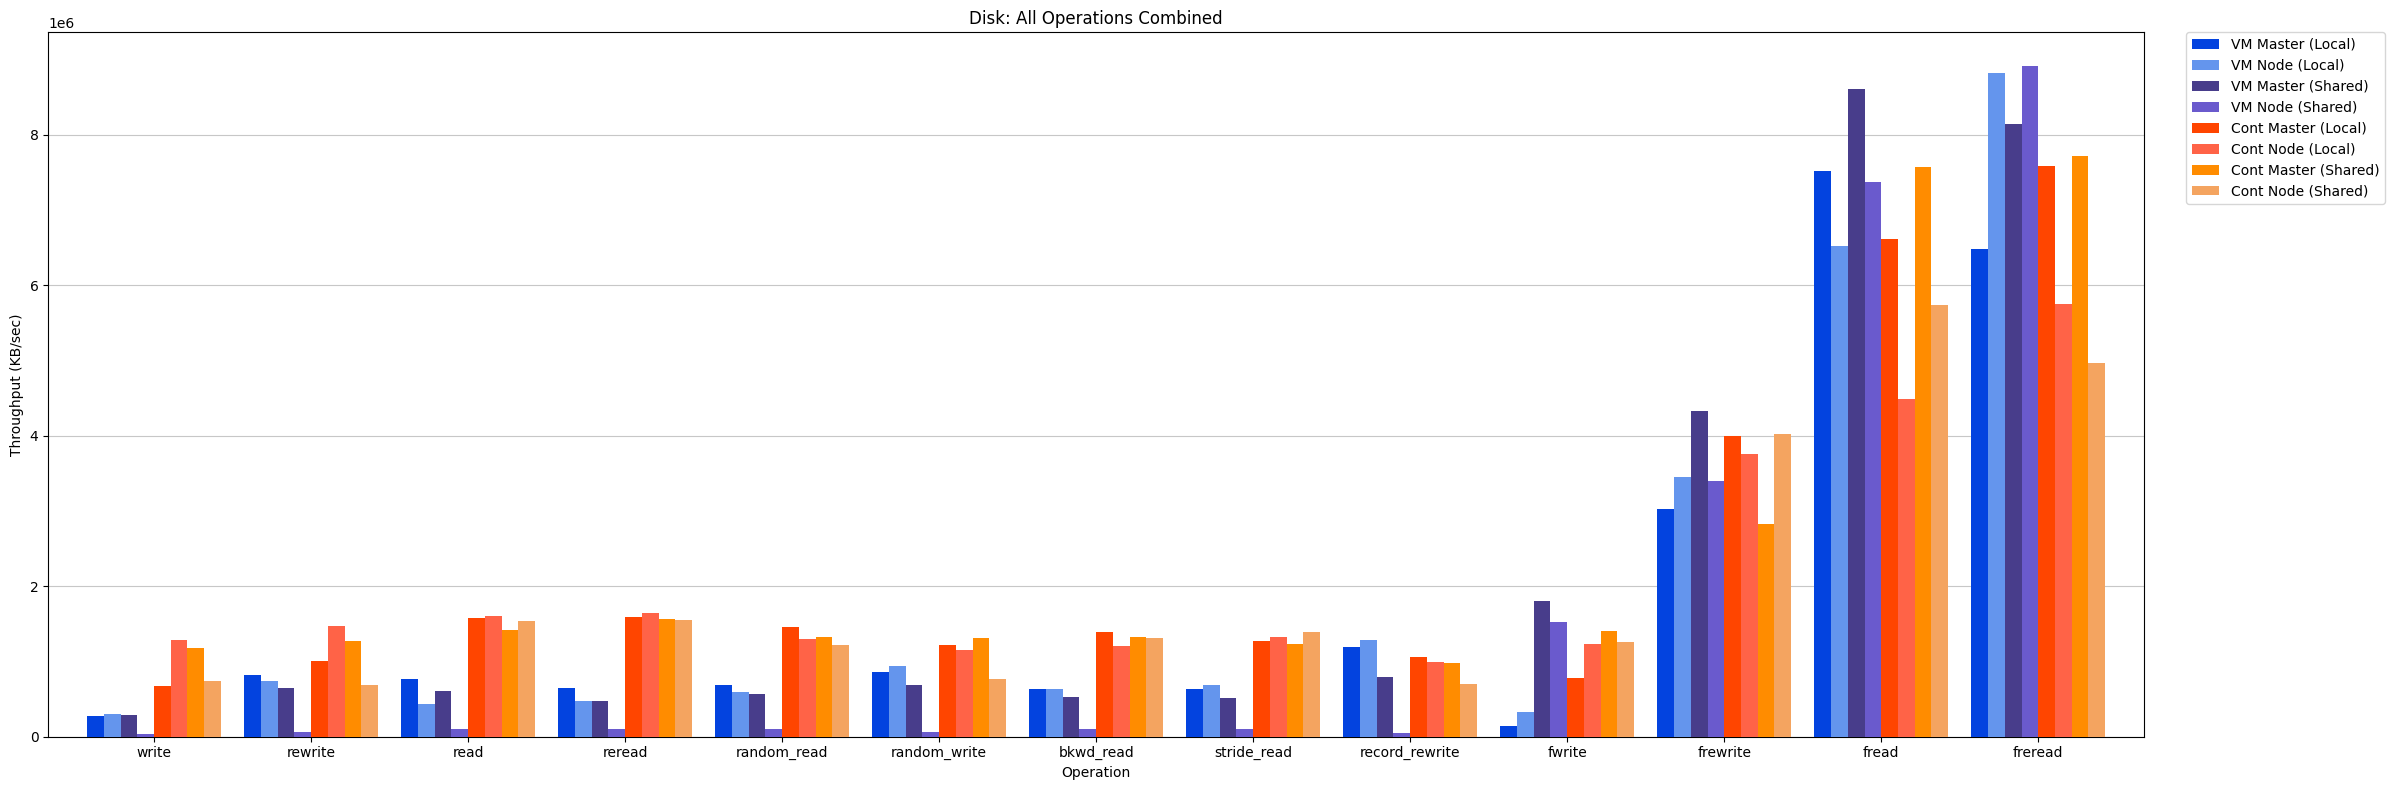
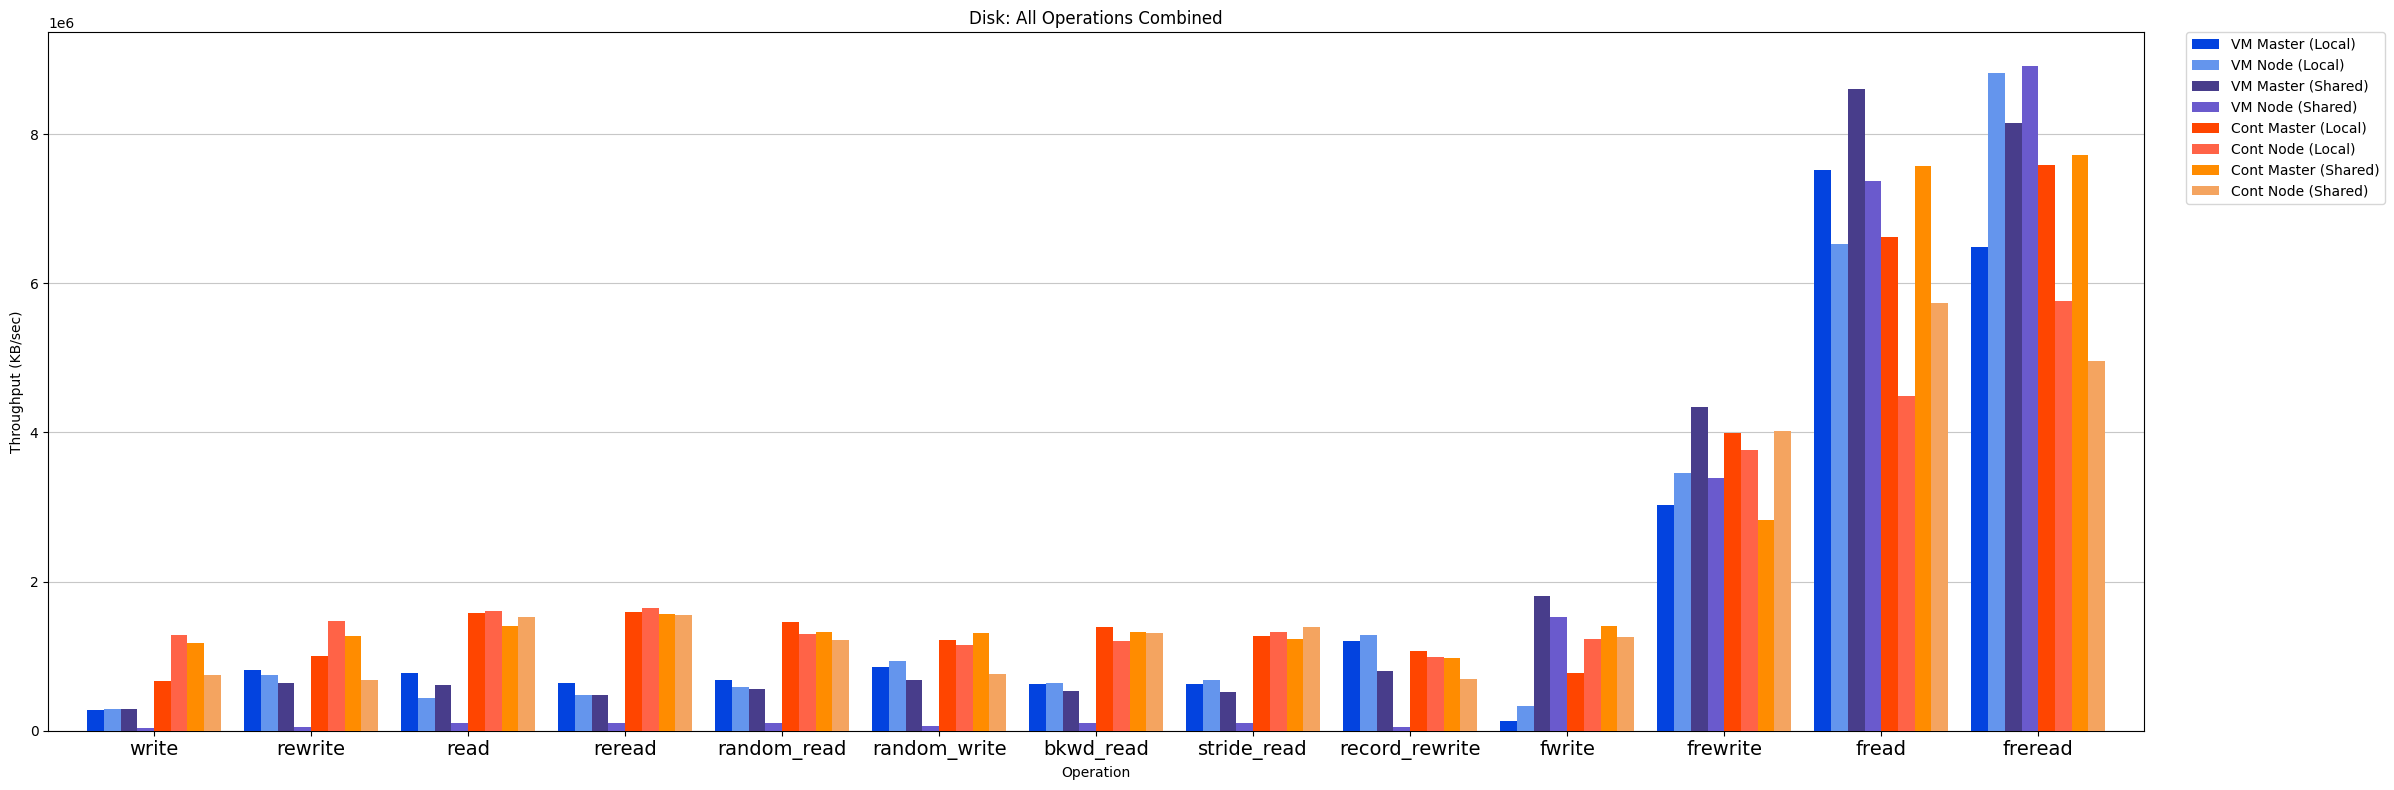
improve plots

diff --git a/results/plots/plots_disk.py b/results/plots/plots_disk.py
@@ -47,6 +47,7 @@ simple_colors = {
 seq_ops = ["write", "rewrite", "read", "reread"]
 rand_ops = ["random_read", "random_write", "bkwd_read", "stride_read", "record_rewrite"]
 file_ops = ["fwrite", "frewrite", "fread", "freread"]
+seq_rand_ops = seq_ops + rand_ops
 all_ops = seq_ops + rand_ops + file_ops
 
 # --- Helper Functions ---
@@ -67,6 +68,7 @@ def get_op_data(df, ops_list):
 def plot_disk_ops(df, title, filename, figure_size=(14, 7), rot=0):
     fig, ax = plt.subplots(figsize=figure_size)
     df.plot(kind="bar", color=colors, width=0.85, rot=rot, zorder=3, ax=ax)
+    ax.tick_params(axis='x', labelsize=14)
     ax.set_axisbelow(True)
     ax.yaxis.grid(True, linestyle='-', alpha=0.7)
     ax.set_ylabel("Throughput (KB/sec)")
@@ -128,7 +130,7 @@ def plot_single_op_compare(df, op_name, filename):
     ax.yaxis.grid(True, linestyle='-', alpha=0.7)
     
     ax.set_xticks(x)
-    ax.set_xticklabels([name for _, name in x_groups])
+    ax.set_xticklabels([name for _, name in x_groups], fontsize=14)
     ax.set_ylabel(f"{op_name.capitalize()} Throughput (KB/sec)")
     ax.set_title(f"Disk Performance Comparison: {op_name.capitalize()}")
     
@@ -155,6 +157,7 @@ print("Generating Standard Plots...")
 plot_disk_ops(get_op_data(disk, seq_ops), "Disk: Sequential Operations", "disk_sequential.png")
 plot_disk_ops(get_op_data(disk, rand_ops), "Disk: Random Operations", "disk_random.png")
 plot_disk_ops(get_op_data(disk, file_ops), "Disk: File Operations", "disk_file.png")
+plot_disk_ops(get_op_data(disk, seq_rand_ops), "Disk: Sequential and Random Operations", "disk_seq_rand.png", figure_size=(19, 7))
 plot_disk_ops(get_op_data(disk, all_ops), "Disk: All Operations Combined", "disk_all_combined.png", figure_size=(24, 8))
 
 # 2. NEW: Single Operation Comparison (4 Colors)
